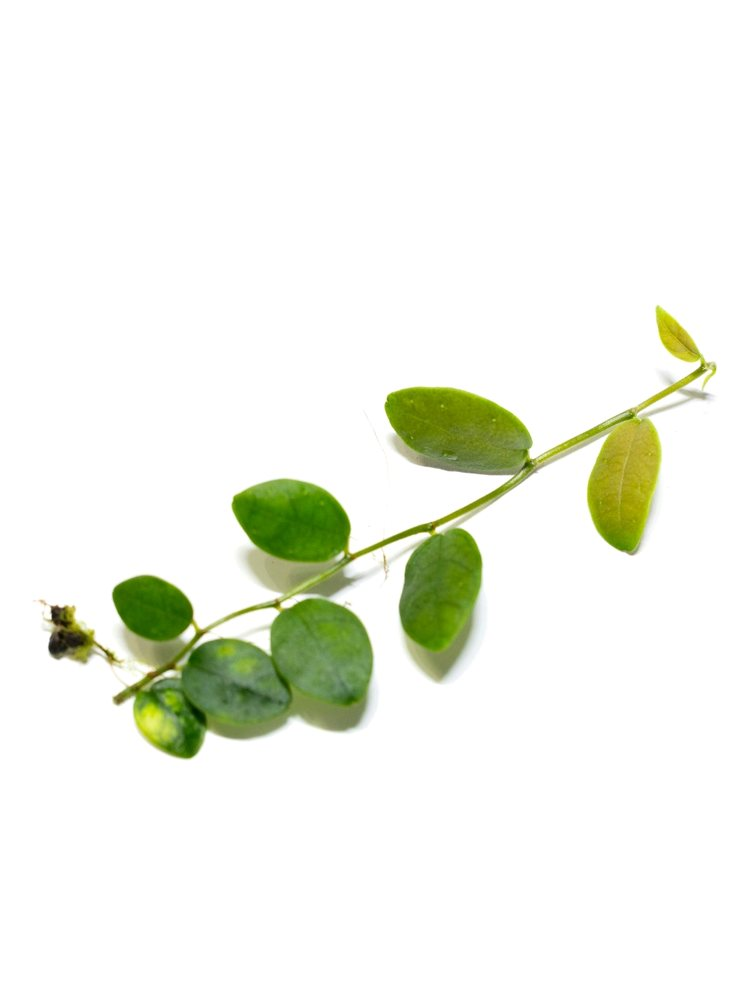
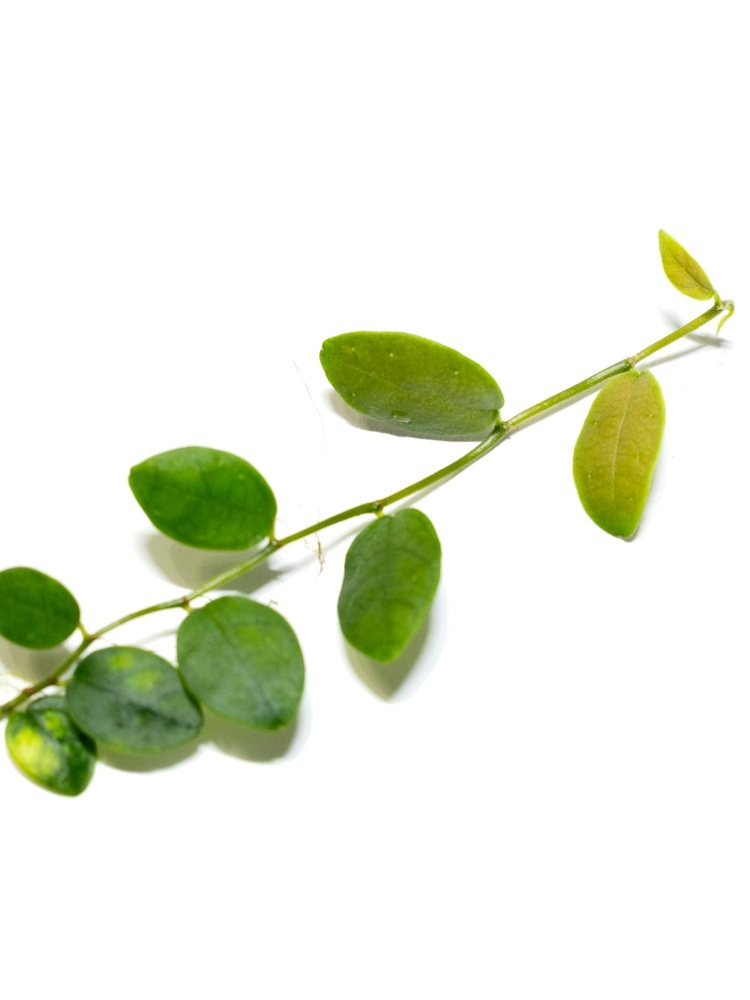
Reframe the Ficus punctata photo for balance
Zoom 1.25 and shift the frame so the leaves read at a scale closer to
Murung Raya: the root clump on the far left is trimmed, the leaves on
the right stay whole. The photo tool gains --zoom and --fy options so
the framing is reproducible.

Claude-Session: https://claude.ai/code/session_01RTzuFWkWY9WEpCoxYCoC66

Changed region(s): [[0.0, 0.217, 0.9813, 0.806]]

diff --git a/plant/index.html b/plant/index.html
@@ -55,11 +55,11 @@
   <link rel="preconnect" href="https://fonts.googleapis.com">
   <link rel="preconnect" href="https://fonts.gstatic.com" crossorigin>
   <link rel="stylesheet" href="https://fonts.googleapis.com/css2?family=Figtree:ital,wght@0,300;0,700;0,800;1,300;1,700&family=Noto+Sans+KR:wght@300;700&family=Noto+Sans+JP:wght@300;700&display=swap">
-  <link rel="stylesheet" href="/assets/css/style.css?v=20261118o">
+  <link rel="stylesheet" href="/assets/css/style.css?v=20261118p">
 </head>
 <body class="page-sub">
   <!-- 상단 바 · PLANT 메뉴 (공통: assets/js/layout.js) -->
-  <script src="/assets/js/layout.js?v=20261118o"></script>
+  <script src="/assets/js/layout.js?v=20261118p"></script>
   <script>PM_LAYOUT.top()</script>
 
   <!-- ───────── PLANT 목록 ─────────
@@ -80,9 +80,9 @@
   <!-- 하단 · 검색 · 언어 창 (공통: assets/js/layout.js) -->
   <script>PM_LAYOUT.bottom()</script>
 
-  <script src="/assets/js/i18n.js?v=20261118o" defer></script>
-  <script src="/assets/js/main.js?v=20261118o" defer></script>
-  <script src="/assets/js/products.js?v=20261118o" defer></script>
-  <script src="/assets/js/plant.js?v=20261118o" defer></script>
+  <script src="/assets/js/i18n.js?v=20261118p" defer></script>
+  <script src="/assets/js/main.js?v=20261118p" defer></script>
+  <script src="/assets/js/products.js?v=20261118p" defer></script>
+  <script src="/assets/js/plant.js?v=20261118p" defer></script>
 </body>
 </html>

diff --git a/index.html b/index.html
@@ -55,11 +55,11 @@
   <link rel="preconnect" href="https://fonts.googleapis.com">
   <link rel="preconnect" href="https://fonts.gstatic.com" crossorigin>
   <link rel="stylesheet" href="https://fonts.googleapis.com/css2?family=Figtree:ital,wght@0,300;0,700;0,800;1,300;1,700&family=Noto+Sans+KR:wght@300;700&family=Noto+Sans+JP:wght@300;700&display=swap">
-  <link rel="stylesheet" href="/assets/css/style.css?v=20261118o">
+  <link rel="stylesheet" href="/assets/css/style.css?v=20261118p">
 </head>
 <body>
   <!-- 상단 바 · PLANT 메뉴 (공통: assets/js/layout.js) -->
-  <script src="/assets/js/layout.js?v=20261118o"></script>
+  <script src="/assets/js/layout.js?v=20261118p"></script>
   <script>PM_LAYOUT.top()</script>
 
   <!-- ───────── 홈 ───────── -->
@@ -101,8 +101,8 @@
   <script>PM_LAYOUT.bottom()</script>
 
 
-  <script src="/assets/js/i18n.js?v=20261118o" defer></script>
-  <script src="/assets/js/products.js?v=20261118o" defer></script>
-  <script src="/assets/js/main.js?v=20261118o" defer></script>
+  <script src="/assets/js/i18n.js?v=20261118p" defer></script>
+  <script src="/assets/js/products.js?v=20261118p" defer></script>
+  <script src="/assets/js/main.js?v=20261118p" defer></script>
 </body>
 </html>

diff --git a/assets/js/products.js b/assets/js/products.js
@@ -27,6 +27,6 @@ window.PM_PRODUCTS = [
     sci: ['Ficus punctata', ''],
     price: 60000,
     status: 'available',
-    image: '/assets/img/products/ficus-punctata.jpg?v=2'
+    image: '/assets/img/products/ficus-punctata.jpg?v=3'   /* 사진 도구: --zoom 1.25 --fx 0.478 --fy 0.522 */
   }
 ];

diff --git a/tools/prepare_product_photo.py b/tools/prepare_product_photo.py
@@ -8,6 +8,9 @@
 사용법:
     python3 tools/prepare_product_photo.py 원본.jpg assets/img/products/식물이름.jpg
     (선택) --fx 0.45  : 가로 위치를 직접 지정 (0=왼쪽 … 1=오른쪽, 기본은 식물 위치 자동)
+    (선택) --zoom 1.25: 식물을 더 크게 (1보다 크면 식물 무게중심을 가운데 두고 확대, 가장자리는 잘릴 수 있음)
+    (선택) --fy 0.52  : 확대할 때 세로 위치를 직접 지정 (0=위 … 1=아래)
+    예) 피커스 푼타타: --zoom 1.25 --fx 0.478 --fy 0.522  (왼쪽 뿌리 쪽은 잘리고 오른쪽 잎은 온전히)
 
 필요한 것: Python 3, Pillow, NumPy  (pip install pillow numpy)
 """
@@ -76,10 +79,19 @@ def flatten_background(img):
     return Image.fromarray(out.astype(np.uint8))
 
 
-def crop_3x4(img, fx=None):
+def crop_3x4(img, fx=None, zoom=1.0, fy=None):
     W, H = img.size
     a = np.asarray(img.convert('L'))
     ys, xs = np.where(a < 200)
+    if zoom > 1 and len(xs):
+        # 식물 무게중심을 가운데 두고 확대해서 자름
+        cw = int(min(W, H * 0.75) / zoom)
+        ch = int(cw / 0.75)
+        cx = xs.mean() if fx is None else fx * W
+        cy = ys.mean() if fy is None else fy * H
+        x0 = int(min(max(cx - cw / 2, 0), W - cw))
+        y0 = int(min(max(cy - ch / 2, 0), H - ch))
+        return img.crop((x0, y0, x0 + cw, y0 + ch)).resize((OUT_W, OUT_H), Image.LANCZOS)
     if fx is None:
         if len(xs):
             x1, x2 = np.percentile(xs, [0.5, 99.5])           # 작은 티끌은 무시
@@ -104,9 +116,11 @@ def main():
     ap.add_argument('src')
     ap.add_argument('dst')
     ap.add_argument('--fx', type=float, default=None)
+    ap.add_argument('--zoom', type=float, default=1.0)
+    ap.add_argument('--fy', type=float, default=None)
     args = ap.parse_args()
     img = Image.open(args.src).convert('RGB')
-    out = crop_3x4(flatten_background(img), args.fx)
+    out = crop_3x4(flatten_background(img), args.fx, args.zoom, args.fy)
     out.save(args.dst, quality=84, optimize=True, progressive=True)
     print(f'saved {args.dst} ({out.size[0]}x{out.size[1]})')
 
